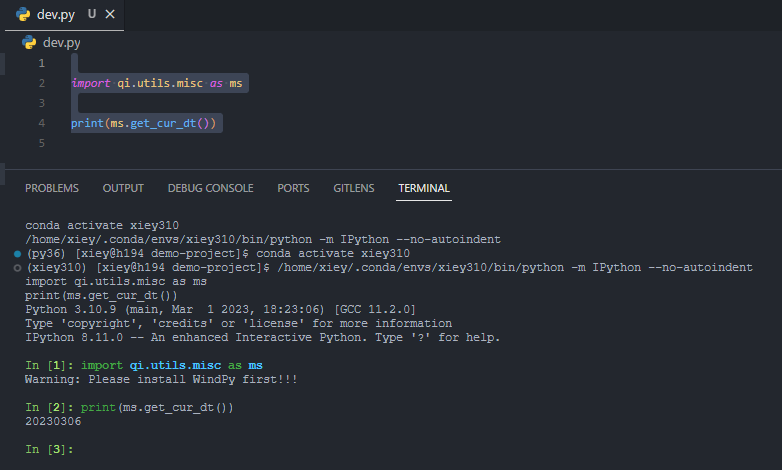
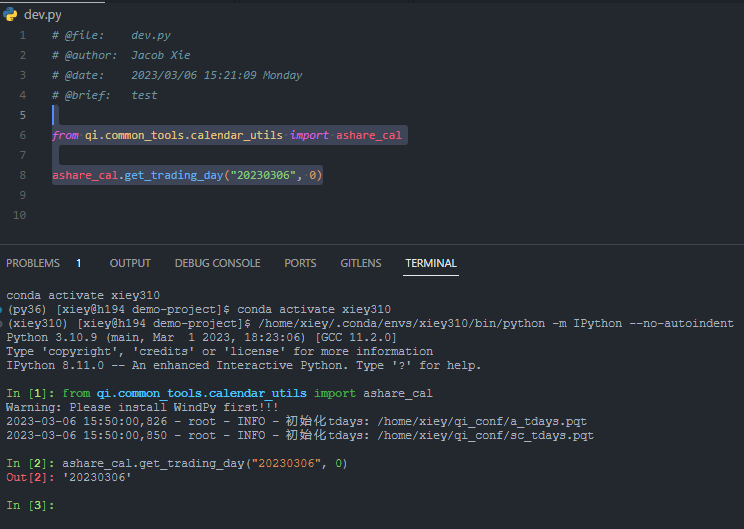
MNT: 修改 py 例子

diff --git a/dev.py b/dev.py
@@ -1,0 +1,9 @@
+# @file:	dev.py
+# @author:	Jacob Xie
+# @date:	2023/03/06 15:21:09 Monday
+# @brief:	test
+
+from qi.common_tools.calendar_utils import ashare_cal
+
+ashare_cal.get_trading_day("20230306", 0)
+
